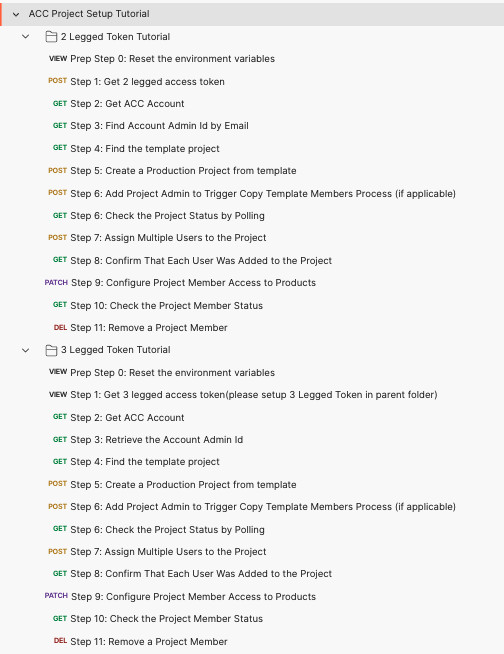
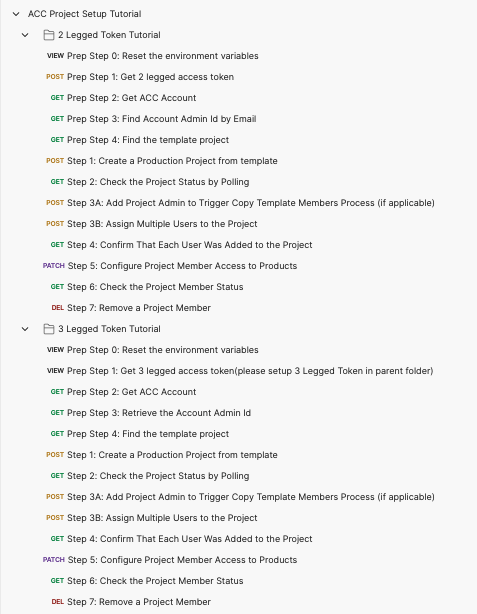
update the collection

Changed region(s): [[0.0587, 0.0, 0.9099, 0.9902], [0.0, 0.0, 0.0294, 0.0309]]

diff --git a/ACCProjectSetupTutorial/README.md b/ACCProjectSetupTutorial/README.md
@@ -1,7 +1,7 @@
 # ACC Project Setup Step-by-Step Tutorial
 
 ![Platforms](https://img.shields.io/badge/Web-Windows|MacOS-lightgray.svg)
-[![oAuth2](https://img.shields.io/badge/Authentication-v1-green.svg)](http://developer.autodesk.com/)
+[![oAuth2](https://img.shields.io/badge/Authentication-v2-green.svg)](http://developer.autodesk.com/)
 [![Data-Management](https://img.shields.io/badge/Data%20Management-v2-green.svg)](http://developer.autodesk.com/)
 [![ACC-Admin](https://img.shields.io/badge/ACC%20Admin-V1-green.svg)](http://developer.autodesk.com/)
 
@@ -30,17 +30,17 @@ This folder contains a Postman Collection that contains the requests cover the c
     - new_project_name
     - admin_email
 
-- Step 1: Get 2 Legged Access Token.
-- Step 2: Get specified ACC Account Id.
-- Step 3: Get Admin Id by email.
-- Step 4: Get Project Template Id.
-- Step 5: Create a new ACC project from the template.
-- Step 6: Add a project admin from email, this will also trigger the coping process of template project members. 
-- Step 7: Assign multiple project users.
-- Step 8: Check if all the users are added successfully
-- Step 9: Update the product access level for the project user.
-- Step 10: Check if the project user is updated as expected.
-- Step 11: Remove the user from the project.
+- Prep Step 1: Get 2 Legged Access Token.
+- Prep Step 2: Get specified ACC Account Id.
+- Prep Step 3: Get Admin Id by email.
+- Prep Step 4: Get Project Template Id.
+- Step 1: Create a new ACC project from the template.
+- Step 2: Add a project admin from email, this will also trigger the coping process of template project members. 
+- Step 3: Assign multiple project users.
+- Step 4: Check if all the users are added successfully
+- Step 5: Update the product access level for the project user.
+- Step 6: Check if the project user is updated as expected.
+- Step 7: Remove the user from the project.
 
 ### 3 Legged Token Tutorial
 - Prep Step 0: Setup the environment variables, please specify your information as follow:
@@ -50,22 +50,22 @@ This folder contains a Postman Collection that contains the requests cover the c
     - template_project_name
     - new_project_name
 
-- Step 1: Please get the Authorization for the parent folder `3 Legged Token Tutorial`, right click **Edit**, go to **Authorization** tab, make sure to use **OAuth 2.0** to get a 3 legged token, use it in the **Request Headers**.
+- Prep Step 1: Please get the Authorization for the parent folder `3 Legged Token Tutorial`, right click **Edit**, go to **Authorization** tab, make sure to use **OAuth 2.0** to get a 3 legged token, use it in the **Request Headers**.
 ![3leggedToken](Img/3leggedToken.png)
     - Callback URL: https://www.getpostman.com/oauth2/callback
     - Auth URL: https://developer.api.autodesk.com/authentication/v2/authorize 
     - Access Token URL: https://developer.api.autodesk.com/authentication/v2/token
 
-- Step 2: Get specified ACC Account Id.
-- Step 3: Get Admin information of the current user, including Id and email.
-- Step 4: Get Project Template Id.
-- Step 5: Create a new ACC project from the template.
-- Step 6: Add a project admin from email, this will also trigger the coping process of template project members. 
-- Step 7: Assign multiple project users.
-- Step 8: Check if all the users are added successfully
-- Step 9: Update the product access level for the project user.
-- Step 10: Check if the project user is updated as expected.
-- Step 11: Remove the user from the project.
+- Prep Step 2: Get specified ACC Account Id.
+- Prep Step 3: Get Admin information of the current user, including Id and email.
+- Prep Step 4: Get Project Template Id.
+- Step 1: Create a new ACC project from the template.
+- Step 2: Add a project admin from email, this will also trigger the coping process of template project members. 
+- Step 3: Assign multiple project users.
+- Step 4: Check if all the users are added successfully
+- Step 5: Update the product access level for the project user.
+- Step 6: Check if the project user is updated as expected.
+- Step 7: Remove the user from the project.
 
 
 ## License

diff --git a/README.md b/README.md
@@ -2,7 +2,7 @@
 
 This repository contains API collection as follow for different purpose which could help you understand the usage of ACC Admin API:
 
-- [ACC Project Setup Tutorial](ACCProjectSetupTutorial), includes a set of API working as tutorial of ACC Project Setup workflow.
+- [ACC Project Setup Tutorial](ACCProjectSetupTutorial), includes a set of API working as tutorial of ACC Project Setup workflow. The postman collection workflow mainly follow the [Step-by-Step Tutorials - Create and Configure Projects](https://aps.autodesk.com/en/docs/acc/v1/tutorials/admin/admin-create-configure-projects/#step-3-assign-members-to-your-project).
 
 
 ## What's Postman?
